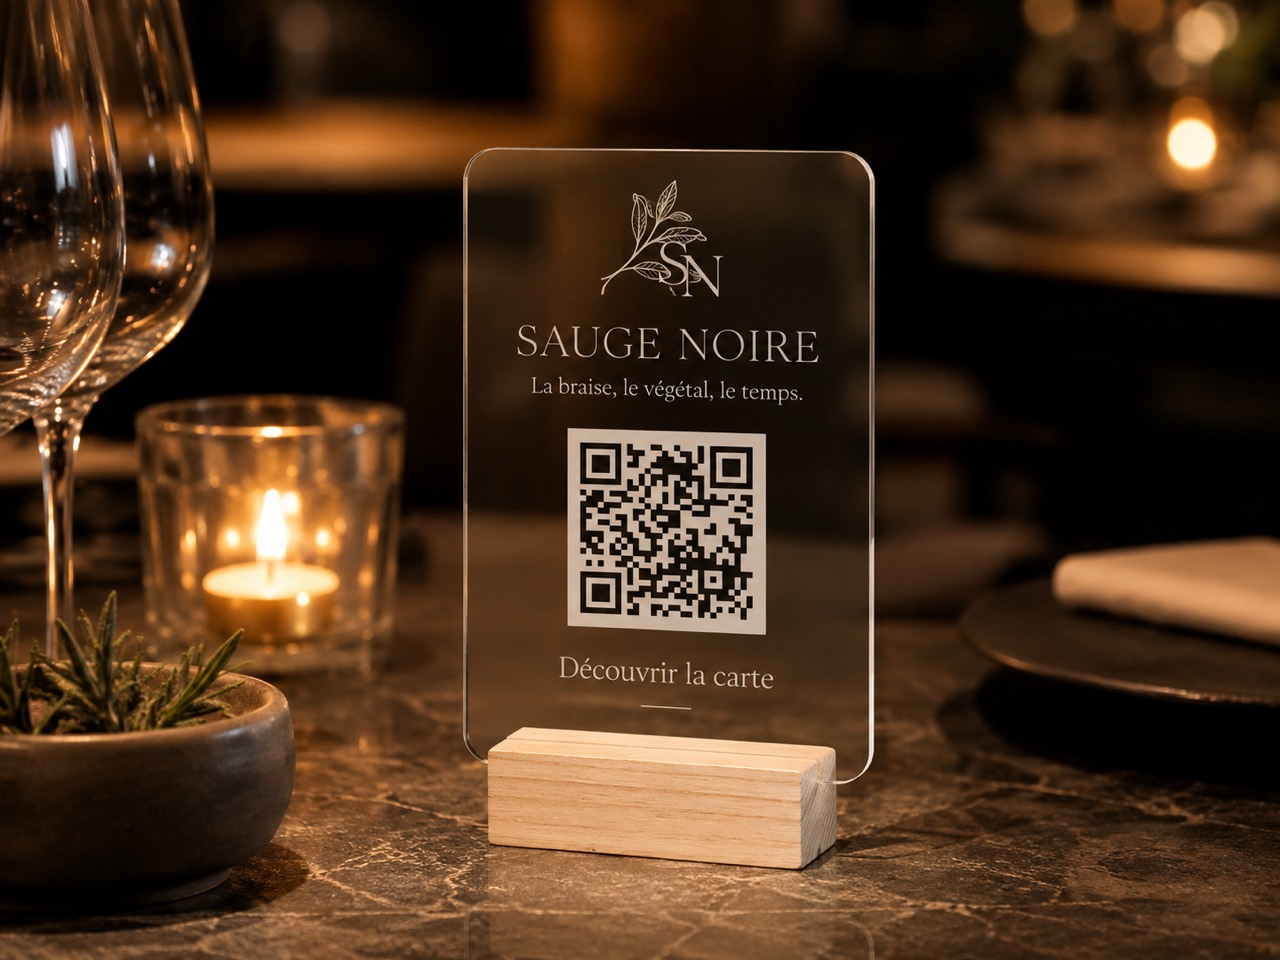
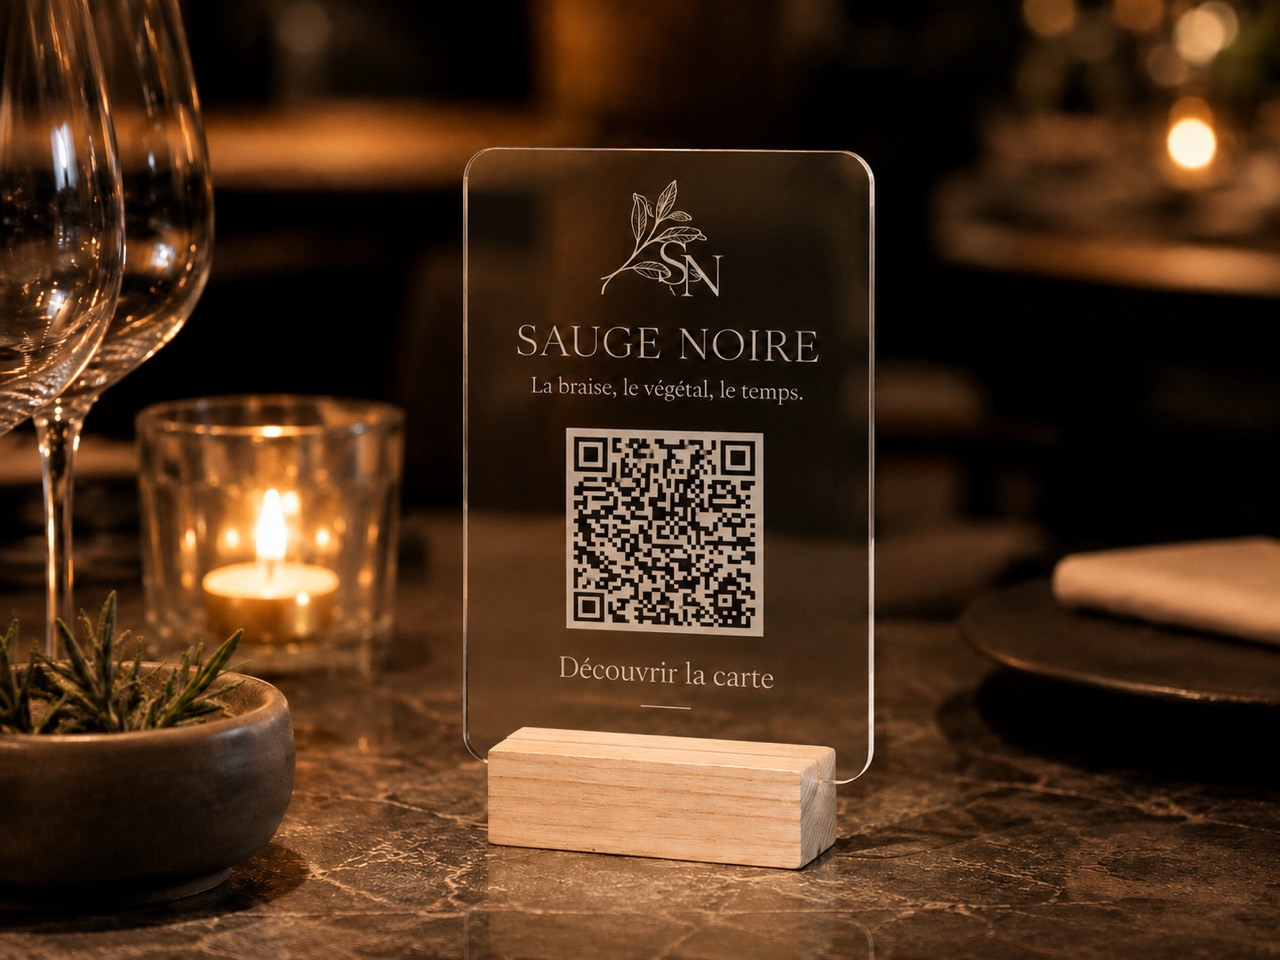
fix: replace pricing collection photography

diff --git a/lib/pricingPage.ts b/lib/pricingPage.ts
@@ -107,7 +107,7 @@ export type PricingPageContent = {
 const collectionImages = {
   acrylique: "/images/pricing/vistaire-acrylique.jpg",
   sculpte: "/images/pricing/vistaire-sculpte.jpg",
-  carre: "/images/pricing/vistaire-carre.jpg",
+  carre: "/images/pricing/vistaire-carre.png",
   signature: "/images/pricing/vistaire-signature.jpg"
 } as const;
 
@@ -169,8 +169,8 @@ export const PRICING_PAGE = {
       monthlyPrice: "+ 200 $ CAD / mois",
       image: collectionImages.carre,
       imageAlt:
-        "Supports QR carrés Vistaire en deux finitions de bois sur une table",
-      imagePosition: "65% 50%",
+        "Support QR carré Vistaire présenté recto et verso sur une table de restaurant",
+      imagePosition: "84% 50%",
       cta: {
         label: "Découvrir cette collection",
         href: "/prendre-rendez-vous"
@@ -358,8 +358,8 @@ export const PRICING_PAGE_EN = {
       monthlyPrice: "+ $200 CAD / month",
       image: collectionImages.carre,
       imageAlt:
-        "Square Vistaire QR displays in two wood finishes on a restaurant table",
-      imagePosition: "65% 50%",
+        "Vistaire Square QR display shown from the front and back on a restaurant table",
+      imagePosition: "84% 50%",
       cta: {
         label: "Discover this collection",
         href: "/en/book-a-call"

diff --git a/design-qa.md b/design-qa.md
@@ -97,3 +97,35 @@ The source and implementation images were inspected together in two comparison i
 - Targeted Playwright suite: 40 tests passed, including 390, 430, 768, 1280 and 1440 px; no unexpected Pricing console errors, 404/500 responses, hydration errors, or horizontal overflow.
 
 final result: passed
+
+# Design QA — Pricing collection photography
+
+Date: 2026-08-11
+
+## Scope and source references
+
+- Acrylique: `C:\Users\hadid\.codex\codex-remote-attachments\019fefb0-08e7-7733-abaa-1ccb7c1e0c69\89DDB8FB-940F-4D72-BB29-E092A4527024\3-Photo-3.jpg`.
+- Sculpté: `C:\Users\hadid\.codex\codex-remote-attachments\019fefb0-08e7-7733-abaa-1ccb7c1e0c69\89DDB8FB-940F-4D72-BB29-E092A4527024\2-Photo-2.jpg`.
+- Carré, shown from the front and back: `C:\Users\hadid\.codex\codex-remote-attachments\019fefb0-08e7-7733-abaa-1ccb7c1e0c69\89DDB8FB-940F-4D72-BB29-E092A4527024\4-sauge_noire_qr_fonctionnel.png`.
+- Signature: `C:\Users\hadid\.codex\codex-remote-attachments\019fefb0-08e7-7733-abaa-1ccb7c1e0c69\89DDB8FB-940F-4D72-BB29-E092A4527024\1-Photo-1.jpg`.
+
+## Implementation evidence
+
+Codex in-app browser, device pixel ratio `1`, route `/tarifs-menu-digital-restaurant`:
+
+- Four-card desktop composition, `1440 × 900`: `C:\Users\hadid\.codex\visualizations\2026\08\11\019fefb0-08e7-7733-abaa-1ccb7c1e0c69\pricing-collections-1440x900.png`.
+- Focused Carré crop, `390 × 844`: `C:\Users\hadid\.codex\visualizations\2026\08\11\019fefb0-08e7-7733-abaa-1ccb7c1e0c69\pricing-carre-390x844.png`.
+- Focused Carré crop, `430 × 932`: `C:\Users\hadid\.codex\visualizations\2026\08\11\019fefb0-08e7-7733-abaa-1ccb7c1e0c69\pricing-carre-430x932.png`.
+
+The four source images and the desktop/mobile implementation screenshots were inspected together in one comparison input.
+
+## Findings and correction history
+
+1. Each source is mapped to the matching physical collection and retains its real restaurant setting, material, QR treatment and Sauge Noire identity.
+2. Carré remains one collection. Its alt text identifies the two visible pieces as the front and back, and the crop is biased right so both faces remain legible without presenting them as two offers.
+3. The lossless PNG is retained for Carré to avoid adding compression around the supplied functional QR artwork. The other three photographs remain JPEG.
+4. All four cards load the expected localized asset path in FR and EN. Natural image dimensions are non-zero and no 404/500 asset response or browser error was observed.
+5. At 390, 430 and 1440 px, the support remains visible, the images keep `object-fit: cover`, and the document has no horizontal overflow.
+6. The browser environment does not expose `BarcodeDetector`; QR scannability was therefore not claimed from automated browser QA. Visual integrity and successful rendering were verified.
+
+final result: passed
